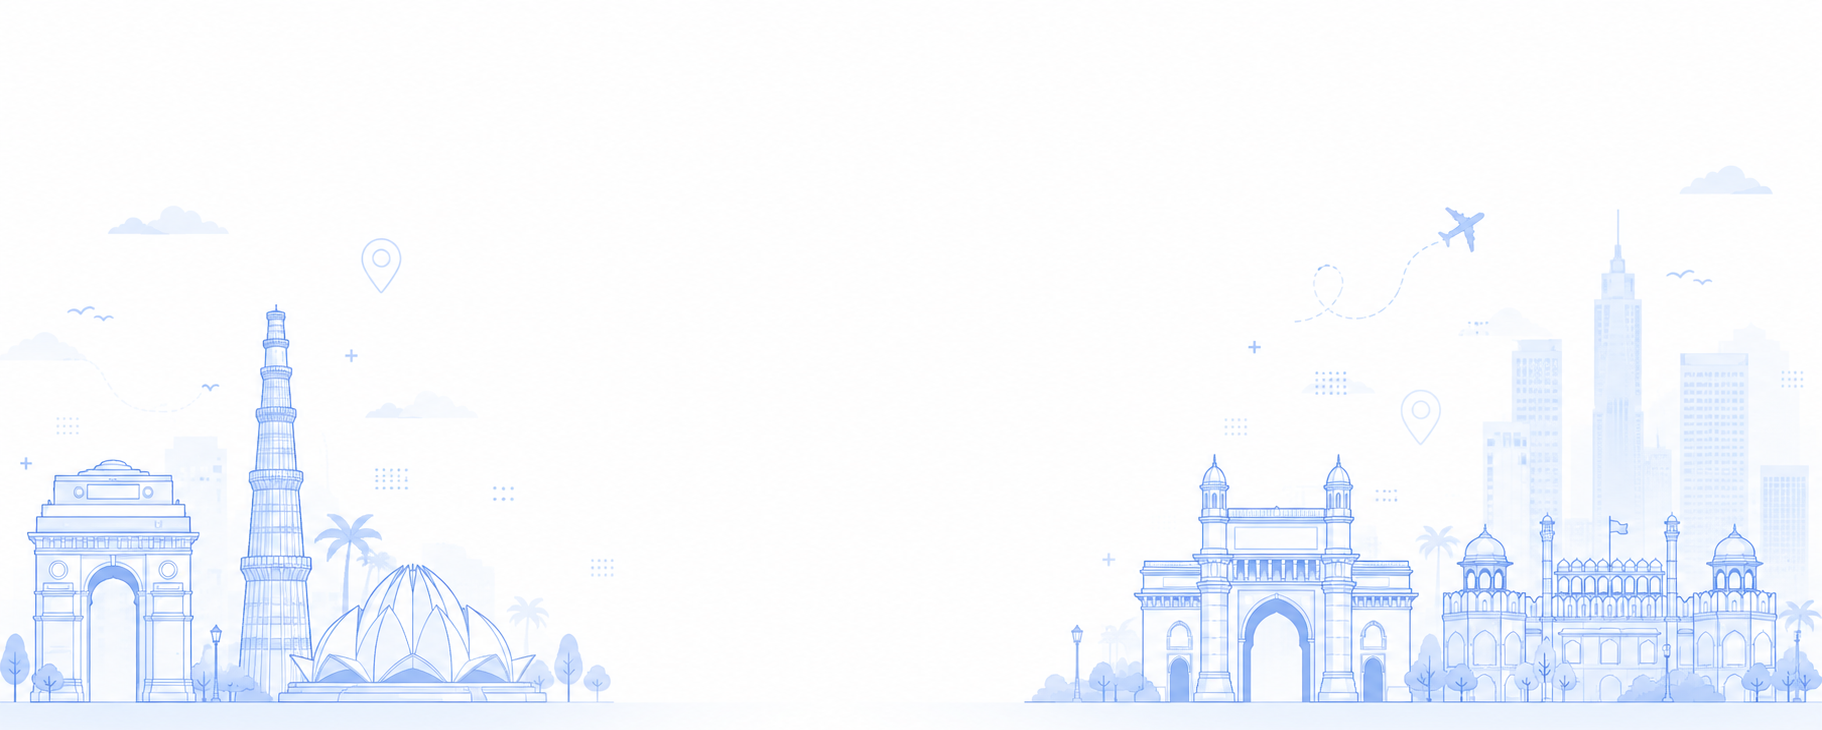
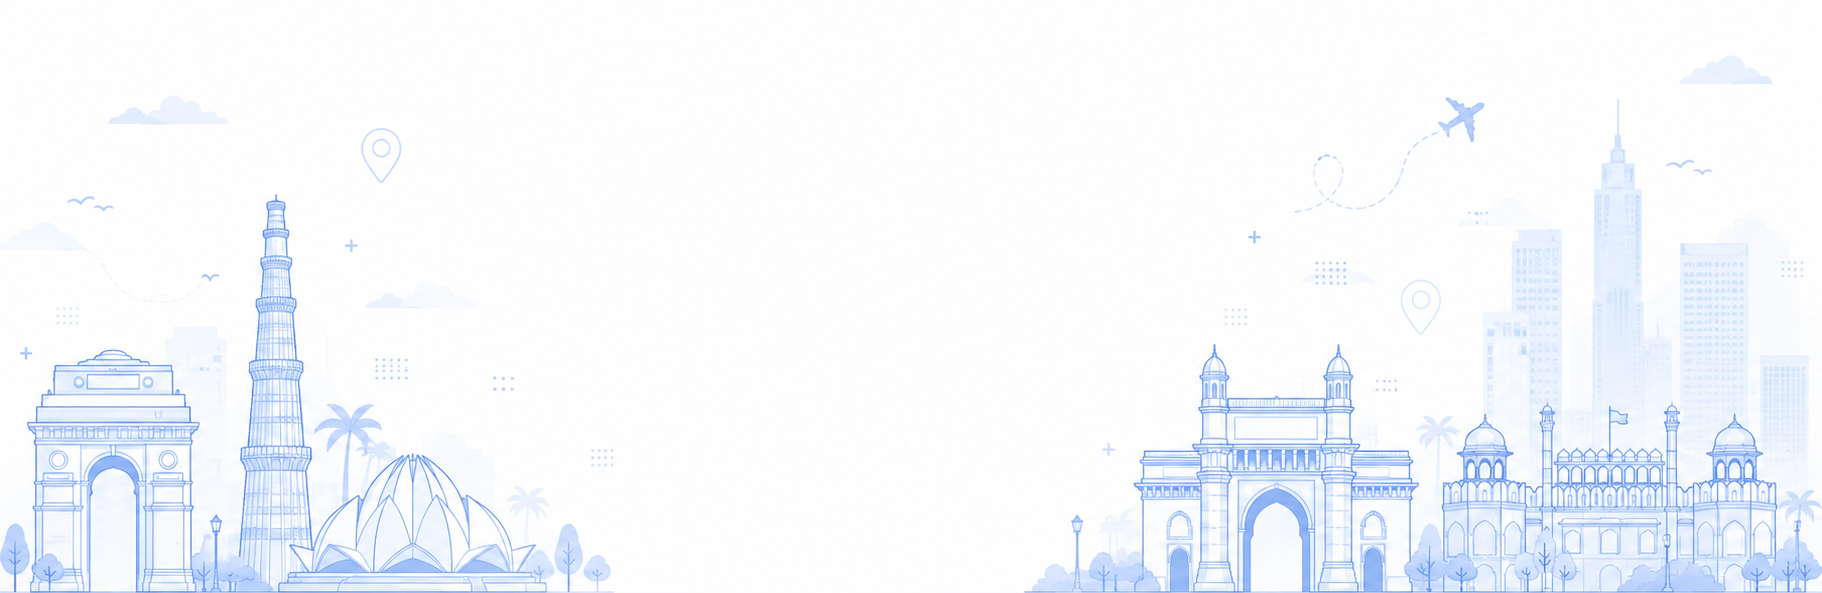
clean up

diff --git a/components/HomeClient.tsx b/components/HomeClient.tsx
@@ -664,7 +664,7 @@ export default function HomeClient({ initialData }: { initialData: any }) {
 
       {!(activeMobileTab === 'AI Search' || (activeMobileTab === 'FinderB AI' && isAiLoading)) && (
         <>
-          <section className="hidden lg:block bg-[#f8fafc] pt-24 pb-10">
+          <section className="hidden lg:block bg-[#f8fafc] pb-10">
             <div className="w-full px-0">
               <div className="relative w-full overflow-hidden border-y border-slate-200 bg-white px-10 pb-7 pt-10">
                 <div className="pointer-events-none absolute inset-x-0 bottom-0 h-[220px] opacity-35">
